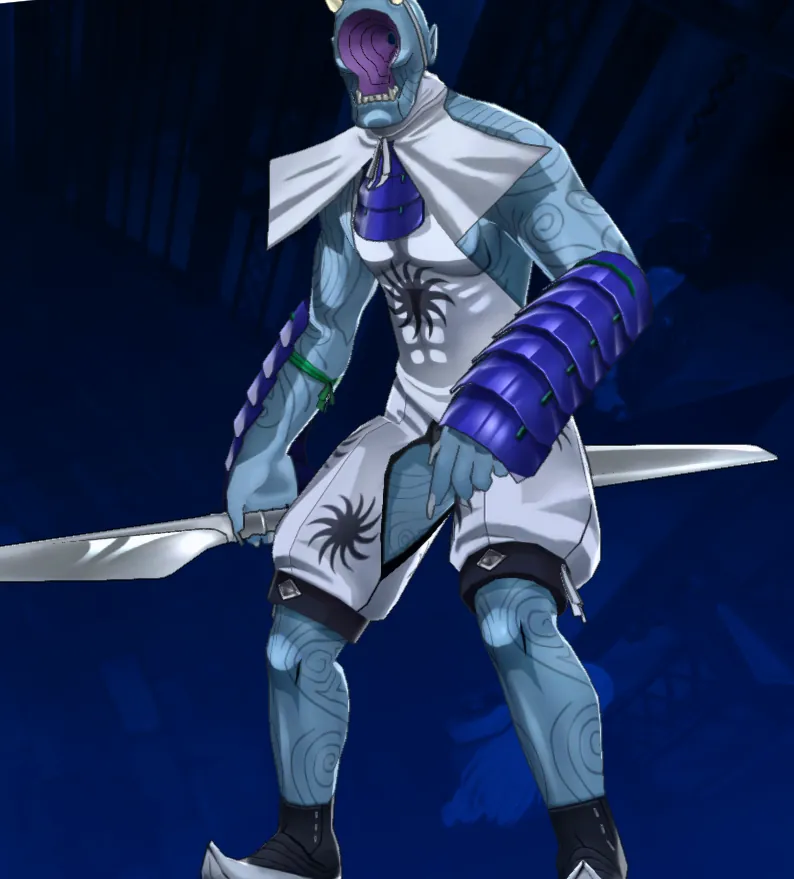
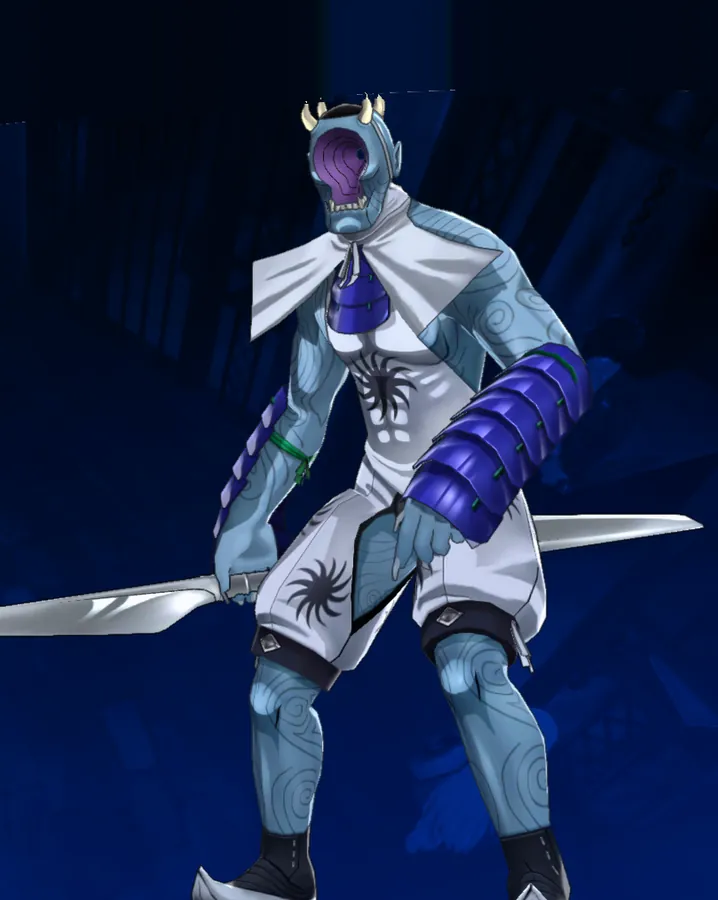
Fotos: Cú Chulainn y Fuu-Ki con la cabeza entera en el catálogo; Izanagi-no-Okami Pícaro con las fotos nuevas
La franja del menú tapaba la cabeza: ahora se pinta con el fondo en vez de recortarla.

Claude-Session: https://claude.ai/code/session_01TLD9DxtzdAPGjt2ektcgBd

diff --git a/src/games/p5r/components/PersonaCard.tsx b/src/games/p5r/components/PersonaCard.tsx
@@ -1,6 +1,6 @@
 import { Link } from 'react-router-dom';
 import { ImagePlaceholder } from '../../../shared/components/ImagePlaceholder';
-import { personaImage } from '../services/images';
+import { personaCardFocus, personaImage } from '../services/images';
 import type { Persona } from '../types';
 import { getArcana } from '../data/arcana';
 import { PARTY_OWNER, isSpoilerStage } from '../data/party';
@@ -27,7 +27,7 @@ export function PersonaCard({ persona }: { persona: Persona }) {
         <ImagePlaceholder
           className={styles.image}
           src={personaImage(persona.id, 'side')}
-          focus="50% 30%"
+          focus={personaCardFocus(persona.id)}
           label={personaImage(persona.id, 'side') ? personaName(persona) : 'Imagen de Persona'}
           corner={arcana.numeral}
           badge={badge}

diff --git a/src/games/p5r/services/images.ts b/src/games/p5r/services/images.ts
@@ -20,3 +20,10 @@ export const confidantImage = (id: string): string | undefined => CONFIDANTS[id]
  */
 export const personaImage = (id: string, view: 'profile' | 'side'): string | undefined =>
   PERSONAS[`${id}-${view === 'profile' ? 'de' : 'iz'}`];
+
+/** Encuadre en las tarjetas del catálogo: por defecto 50% 30%; algunas fotos necesitan mostrar más arriba. */
+const CARD_FOCUS: Record<string, string> = {
+  'cu-chulainn': '50% 0%',
+  'fuu-ki': '50% 0%', // con aire agregado arriba (recortes.json)
+};
+export const personaCardFocus = (id: string): string => CARD_FOCUS[id] ?? '50% 30%';

diff --git a/scripts/import-photos/personas.py b/scripts/import-photos/personas.py
@@ -19,12 +19,31 @@ def bright_ratio(im, box):
     px = list(im.crop(box).convert('L').tobytes())
     return sum(1 for v in px if v > 225) / max(len(px), 1)
 
-def trim(im):
+def paint_band(im):
+    """La franja blanca pasa por detrás de la cabeza: se pinta con el azul que hay justo debajo, columna por columna."""
+    from tercer_semestre import band_profile, smooth_curve
+    w, h = im.size
+    px = im.load()
+    curve = smooth_curve(band_profile(px, w, h), w)
+    samples = [px[x, min(h - 1, curve[x] + 6)] for x in range(w)]
+    # color de relleno: mediana de lo que hay debajo de la franja en las columnas vecinas
+    # (así, si debajo está la figura, manda el fondo de alrededor)
+    fills = []
+    for x in range(w):
+        win = samples[max(0, x - 120): x + 121]
+        fills.append(tuple(sorted(c[i] for c in win)[len(win) // 2] for i in range(3)))
+    for x in range(w):
+        for y in range(min(h, curve[x] + 2)):
+            c = px[x, y]
+            if max(c) - min(c) < 28: px[x, y] = fills[x]
+    return im
+
+def trim(im, keep_top=False):
     w, h = im.size
     top = 0
     for y in range(0, min(220, h)):              # franja blanca del menú
         if bright_ratio(im, (0, y, w, y + 1)) > 0.15: top = y + 1
-    top = min(top + 6, h // 4)
+    top = 0 if keep_top else min(top + 6, h // 4)
     bottom = h
     for y in range(h - 1, h - 140, -1):           # barra de botones y restos del menú abajo
         if bright_ratio(im, (0, y, w, y + 1)) > 0.03: bottom = y
@@ -47,6 +66,9 @@ def main(src, game_text, personas_json, party_json, out):
         by_es[norm(es)] = p['id']
     here = os.path.dirname(os.path.abspath(__file__))
     manual = json.load(open(os.path.join(here, 'recortes.json')))
+    # fotos donde la franja del menú tapa la cabeza: se pinta en vez de recortarla
+    paint = set(manual.get('_pintar_franja', []))
+    sys.path.insert(0, here)
     # las que se procesan con tercer_semestre.py (otro fondo) no se tocan acá
     other = {l.split('|')[1].strip() for l in open(os.path.join(here, 'tercer_semestre.txt')) if '|' in l and not l.startswith('#')}
     os.makedirs(out, exist_ok=True)
@@ -62,7 +84,13 @@ def main(src, game_text, personas_json, party_json, out):
             if f'{pid}-{side}' in other: continue
             raw = Image.open(os.path.join(src, folder, f)).convert('RGB')
             box = manual.get(f'{pid}-{side}')
-            im = raw.crop(tuple(box)) if box else trim(raw)
+            painted = f'{pid}-{side}' in paint
+            if painted: raw = paint_band(raw)
+            im = raw.crop(tuple(box)) if box else trim(raw, keep_top=painted)
+            extra = manual.get('_aire_arriba', {}).get(f'{pid}-{side}')
+            if extra:  # la figura toca el borde de arriba: se agrega fondo (la primera fila estirada) para que respire
+                strip = im.crop((0, 0, im.width, 1)).resize((im.width, extra))
+                tall = Image.new('RGB', (im.width, im.height + extra)); tall.paste(strip, (0, 0)); tall.paste(im, (0, extra)); im = tall
             im.thumbnail((900, 900), Image.LANCZOS)
             im.save(os.path.join(out, f'{pid}-{side}.webp'), 'WEBP', quality=80, method=6)
             done += 1
